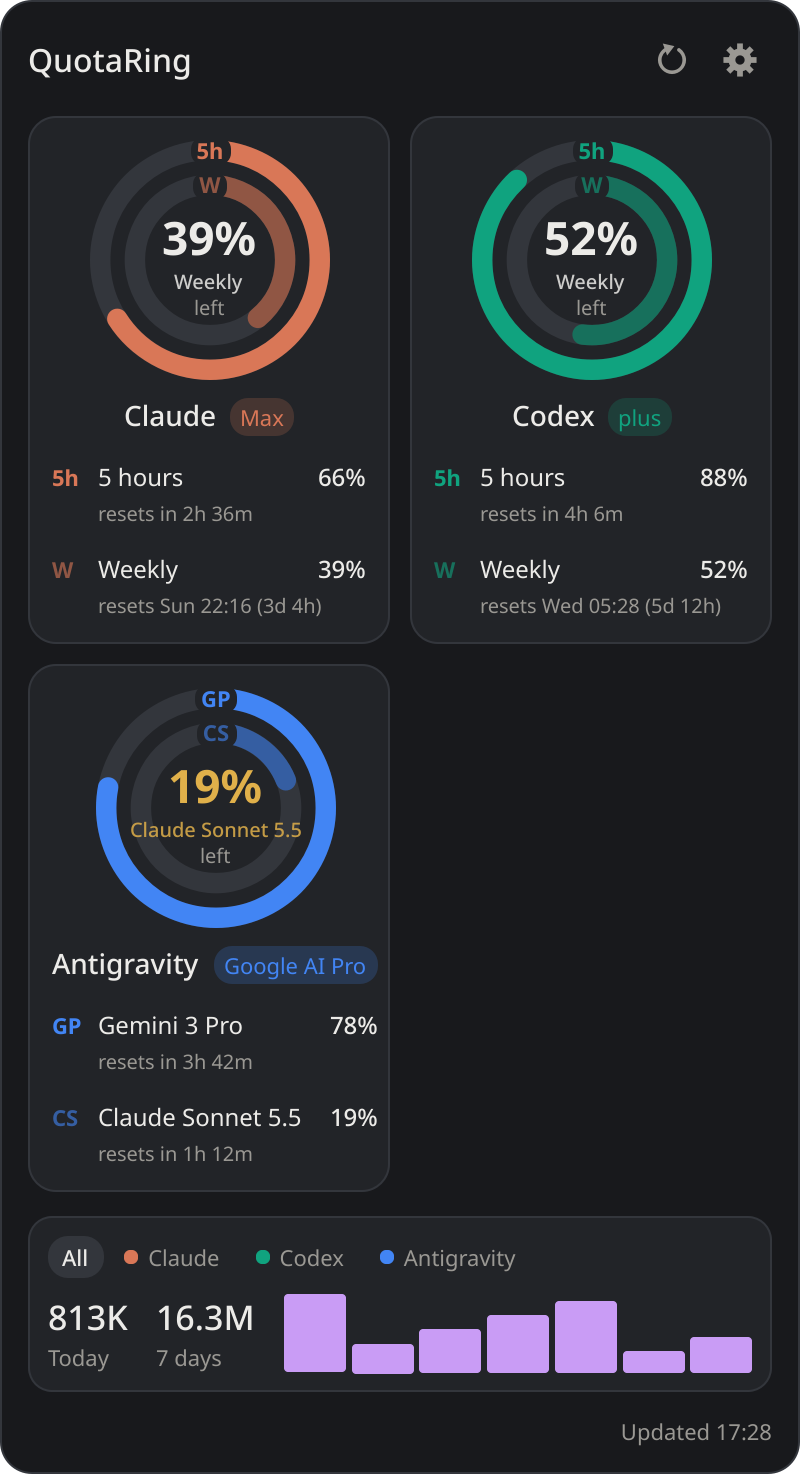
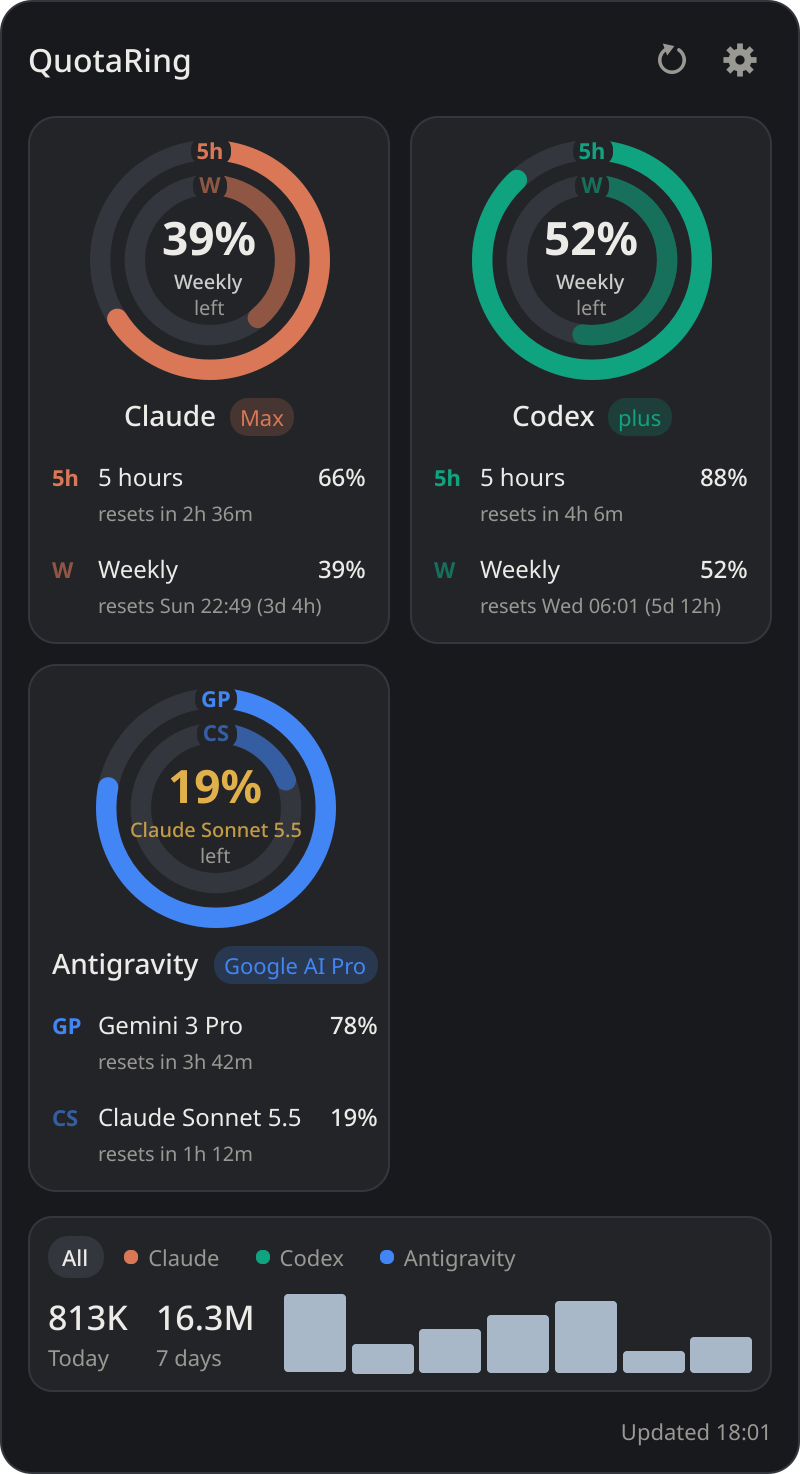
Accent colour setting: Slate, Ink or Amber
Settings > Accent colour picks the app's accent and the colour of its icon (tray, window).
Slate is the default and the colour of the logo files; Amber moves the 'limit near' colour
to orange so the two stay apart. App-icon SVGs for each accent in docs/brand.

diff --git a/quotaring/ui/qml/SettingsWindow.qml b/quotaring/ui/qml/SettingsWindow.qml
@@ -62,6 +62,14 @@ Window {
                         }
                     }
                     Row2 {
+                        label: win.t.accent
+                        Segmented {
+                            options: [["slate", win.t.slate], ["ink", win.t.ink], ["amber", win.t.amber]]
+                            value: win.draft.accent || "slate"
+                            onPicked: v => win.set("accent", v)
+                        }
+                    }
+                    Row2 {
                         label: win.t.language
                         Segmented {
                             options: [["system", win.t.system], ["en", "English"], ["tr", "Türkçe"]]

diff --git a/docs/brand/build_logo.py b/docs/brand/build_logo.py
@@ -13,7 +13,10 @@ from pathlib import Path
 from PySide6.QtGui import QFont, QGuiApplication, QPainterPath
 
 OUT = Path(__file__).resolve().parent
-PURPLE, LILAC, NIGHT, INK, INK_DARK = "#9448D6", "#C99CF5", "#18191C", "#1D1C1A", "#ECEBE8"
+NIGHT, INK, INK_DARK = "#18191C", "#1D1C1A", "#ECEBE8"
+# Accent colours, as in quotaring/ui/theme.py ACCENTS: (light background, dark background).
+ACCENTS = {"slate": ("#3F5468", "#A9B8C8"), "ink": (INK, INK_DARK), "amber": ("#A15F00", "#F2B544")}
+MAIN, MAIN_DARK = ACCENTS["slate"]  # the default; used for the logo files
 
 
 def mark(c=125.0, r=80.0, w=36.0, tail=116.0) -> str:
@@ -69,8 +72,8 @@ def svg(name: str, viewbox: str, body: str) -> None:
 
 def main():
     QGuiApplication(sys.argv)
-    svg("quotaring-symbol", "0 0 256 256", f'<path fill="{PURPLE}" d="{SYMBOL}"/>')
-    svg("quotaring-symbol-small", "0 0 256 256", f'<path fill="{PURPLE}" d="{SYMBOL_SMALL}"/>')
+    svg("quotaring-symbol", "0 0 256 256", f'<path fill="{MAIN}" d="{SYMBOL}"/>')
+    svg("quotaring-symbol-small", "0 0 256 256", f'<path fill="{MAIN}" d="{SYMBOL_SMALL}"/>')
     svg("quotaring-symbol-black", "0 0 256 256", f'<path fill="#000" d="{SYMBOL}"/>')
     svg("quotaring-symbol-white", "0 0 256 256", f'<path fill="#fff" d="{SYMBOL}"/>')
 
@@ -79,7 +82,7 @@ def main():
     x0 = 256 + 36 - box.left()
     y0 = 128 - (box.top() + box.bottom()) / 2 + 6
     width = x0 + box.right() + 20
-    for name, mark_color, text_color in (("horizontal", PURPLE, INK), ("horizontal-dark", LILAC, INK_DARK),
+    for name, mark_color, text_color in (("horizontal", MAIN, INK), ("horizontal-dark", MAIN_DARK, INK_DARK),
                                          ("horizontal-black", "#000", "#000"),
                                          ("horizontal-white", "#fff", "#fff")):
         svg(f"quotaring-{name}", f"0 0 {width:.0f} 256",
@@ -92,15 +95,18 @@ def main():
     sx = (width - 256) / 2
     tx, ty = (width - box.width()) / 2 - box.left(), 256 + 36 - box.top()
     svg("quotaring-stacked", f"0 0 {width:.0f} {ty + box.bottom() + 20:.0f}",
-        f'<path fill="{PURPLE}" transform="translate({sx:.2f} 0)" d="{SYMBOL}"/>'
+        f'<path fill="{MAIN}" transform="translate({sx:.2f} 0)" d="{SYMBOL}"/>'
         f'<path fill="{INK}" transform="translate({tx:.2f} {ty:.2f})" d="{text}"/>')
 
-    # App icon: night tile, lilac mark nudged up-left to sit on the optical centre.
+    # App icon: night tile, accent-coloured mark nudged up-left to sit on the optical centre.
     tile = f'<rect width="256" height="256" rx="56" fill="{NIGHT}"/>'
-    svg("quotaring-app-icon", "0 0 256 256", tile +
-        f'<path fill="{LILAC}" transform="translate(124 124) scale(0.74) translate(-128 -128)" d="{SYMBOL}"/>')
-    svg("quotaring-app-icon-small", "0 0 256 256", tile +
-        f'<path fill="{LILAC}" transform="translate(124 124) scale(0.8) translate(-128 -128)" d="{SYMBOL_SMALL}"/>')
+    # One per accent colour (the app draws the chosen one); the plain name is the default.
+    for accent, (_light, dark) in ACCENTS.items():
+        suffix = "" if accent == "slate" else f"-{accent}"
+        svg(f"quotaring-app-icon{suffix}", "0 0 256 256", tile +
+            f'<path fill="{dark}" transform="translate(124 124) scale(0.74) translate(-128 -128)" d="{SYMBOL}"/>')
+        svg(f"quotaring-app-icon{suffix}-small", "0 0 256 256", tile +
+            f'<path fill="{dark}" transform="translate(124 124) scale(0.8) translate(-128 -128)" d="{SYMBOL_SMALL}"/>')
     print("written to", OUT)
 
 

diff --git a/quotaring/app.py b/quotaring/app.py
@@ -23,8 +23,9 @@ from .ui.popup import Backend, Popup, layer_shell_import_dir
 log = logging.getLogger("quotaring")
 
 
-def make_icon() -> QIcon:
+def make_icon(accent: str = theme.DEFAULT_ACCENT) -> QIcon:
     """App icon: the QuotaRing mark (a Q drawn as a gauge) on a dark tile; see docs/brand/build_logo.py."""
+    color = theme.ACCENTS.get(accent, theme.ACCENTS[theme.DEFAULT_ACCENT])[1]  # the tile is always dark
     icon = QIcon()
     for size in (16, 22, 24, 32, 48, 64, 128, 256):
         pm = QPixmap(size, size)
@@ -42,7 +43,7 @@ def make_icon() -> QIcon:
         def at(v):  # canvas coordinate -> pixel, as translate(124) scale(s) translate(-128) in the SVG
             return (124 + scale * (v - 128)) * k
         rr, ww = r * scale * k, w * scale * k
-        p.setPen(QPen(QColor("#c99cf5"), ww, Qt.SolidLine, Qt.RoundCap))
+        p.setPen(QPen(QColor(color), ww, Qt.SolidLine, Qt.RoundCap))
         p.setBrush(Qt.NoBrush)
         p.drawArc(QRectF(at(c) - rr, at(c) - rr, 2 * rr, 2 * rr), 90 * 16, -270 * 16)
         d = 0.70710678
@@ -114,8 +115,8 @@ class Controller(QObject):
         self.signals.done.connect(self._on_done)
         self.seen_alerts = alerts.Seen()
 
-        self.palette = theme.resolve(self.settings.theme)
-        self.icon = make_icon()
+        self.palette = theme.resolve(self.settings.theme, self.settings.accent)
+        self.icon = make_icon(self.settings.accent)
         app.setWindowIcon(self.icon)
         self.backend = Backend(self.settings, self.palette)
         self.backend.refreshRequested.connect(lambda: self.refresh(force=True))
@@ -210,7 +211,7 @@ class Controller(QObject):
                               if ring["available"] else self.icon)
 
     def _panel_palette(self):
-        return theme.DARK if theme.system_is_dark() else theme.LIGHT
+        return theme.with_accent(theme.DARK if theme.system_is_dark() else theme.LIGHT, self.settings.accent)
 
     def _maybe_notify(self, snap):
         if self.tray is None:
@@ -220,8 +221,10 @@ class Controller(QObject):
 
     # -- popup / settings -----------------------------------------------
     def apply_theme(self):
-        self.palette = theme.resolve(self.settings.theme)
+        self.palette = theme.resolve(self.settings.theme, self.settings.accent)
         self.backend.set_palette(self.palette)
+        self.icon = make_icon(self.settings.accent)
+        self.app.setWindowIcon(self.icon)
         self.update_view()
 
     def open_settings(self):

diff --git a/quotaring/ui/theme.py b/quotaring/ui/theme.py
@@ -2,7 +2,7 @@
 
 from __future__ import annotations
 
-from dataclasses import dataclass
+from dataclasses import dataclass, replace
 
 from PySide6.QtCore import Qt
 from PySide6.QtGui import QGuiApplication
@@ -25,9 +25,29 @@ class Palette:
 
 
 LIGHT = Palette("light", "#f6f5f2", "#ffffff", "#e3e0da", "#1d1c1a", "#6b6862", "#ebe8e2",
-                "#9448d6", "#2f8f5b", "#c98a12", "#cf4b3f", "#6b6862")
+                "#3f5468", "#2f8f5b", "#c98a12", "#cf4b3f", "#6b6862")
 DARK = Palette("dark", "#18191c", "#222428", "#33363c", "#ecebe8", "#9a9893", "#33363c",
-               "#c99cf5", "#5cc28a", "#e0b04a", "#ef6f62", "#9a9893")
+               "#a9b8c8", "#5cc28a", "#e0b04a", "#ef6f62", "#9a9893")
+
+# Accent colours (the logo's colour too; Settings > Accent colour): light theme, dark theme.
+ACCENTS = {
+    "slate": ("#3f5468", "#a9b8c8"),
+    "ink": ("#1d1c1a", "#ecebe8"),
+    "amber": ("#a15f00", "#f2b544"),
+}
+DEFAULT_ACCENT = "slate"
+# Amber would match the "limit near" colour, so the warning moves to orange with it.
+WARN_WITH_AMBER = ("#c2581a", "#f0874a")
+
+
+def with_accent(p: Palette, accent: str) -> Palette:
+    light, dark = ACCENTS.get(accent, ACCENTS[DEFAULT_ACCENT])
+    is_dark = p.name == "dark"
+    p = replace(p, accent=dark if is_dark else light)
+    if accent == "amber":
+        p = replace(p, warn=WARN_WITH_AMBER[1] if is_dark else WARN_WITH_AMBER[0])
+    return p
+
 
 def system_is_dark() -> bool:
     hints = QGuiApplication.styleHints()
@@ -41,9 +61,11 @@ def system_is_dark() -> bool:
     return QGuiApplication.palette().window().color().lightness() < 128
 
 
-def resolve(theme: str) -> Palette:
+def resolve(theme: str, accent: str = DEFAULT_ACCENT) -> Palette:
     if theme == "dark":
-        return DARK
-    if theme == "light":
-        return LIGHT
-    return DARK if system_is_dark() else LIGHT
+        base = DARK
+    elif theme == "light":
+        base = LIGHT
+    else:
+        base = DARK if system_is_dark() else LIGHT
+    return with_accent(base, accent)

diff --git a/quotaring/ui/settings_form.py b/quotaring/ui/settings_form.py
@@ -8,7 +8,7 @@ from ..viewmodel import COLORS
 
 NAMES = {"claude": "Claude Code", "codex": "Codex", "antigravity": "Antigravity"}
 NO_QUOTA: dict[str, str] = {}  # providers without any quota source: their toggle is disabled
-SCALARS = ("local_refresh_seconds", "quota_refresh_seconds", "timeout_seconds", "theme", "language",
+SCALARS = ("local_refresh_seconds", "quota_refresh_seconds", "timeout_seconds", "theme", "language", "accent",
            "show_remaining", "start_at_login", "notify_threshold", "claude_command", "codex_command")
 
 
@@ -22,7 +22,7 @@ def form(s: Settings, autostart_supported: bool) -> dict:
         "notifications": "Notifications", "providers": "Providers", "commands": "Command paths",
         "local": "Local refresh every", "quota": "Quota refresh every", "timeout": "Query timeout",
         "seconds": "seconds", "theme": "Theme", "system": "Follow system", "light": "Light", "dark": "Dark",
-        "language": "Language",
+        "language": "Language", "accent": "Accent colour", "slate": "Slate", "ink": "Ink", "amber": "Amber",
         "remaining": "Show limits as the percent left (off: used)", "autostart": "Start at login",
         "autostartHint": "Start QuotaRing when you log in", "notify": "Notify at quota",
         "notifyHint": "Notify when a limit's use reaches", "off": "Off", "track": "Track this provider",

diff --git a/tests/test_ui.py b/tests/test_ui.py
@@ -218,3 +218,23 @@ def test_pinned_setting_is_cleaned(tmp_path):
     p = tmp_path / "s.json"
     p.write_text(json.dumps({"pinned": {"antigravity": "GPT-OSS 120B", "bard": "x", "codex": 3}}))
     assert settings_mod.load(p).pinned == {"antigravity": "GPT-OSS 120B"}
+
+
+def test_accent_colours():
+    from quotaring.settings import Settings
+    for name, (light, dark) in theme.ACCENTS.items():
+        assert theme.with_accent(theme.LIGHT, name).accent == light
+        assert theme.with_accent(theme.DARK, name).accent == dark
+    amber = theme.with_accent(theme.DARK, "amber")
+    assert amber.warn not in (theme.DARK.warn, amber.accent)  # "limit near" stays distinguishable
+    assert theme.with_accent(theme.LIGHT, "bogus").accent == theme.ACCENTS["slate"][0]
+    assert Settings(accent="bogus").clamp().accent == "slate"
+
+
+def test_accent_setting_round_trip(app, settings):
+    from quotaring.app import make_icon
+    from quotaring.ui import settings_form
+    settings_form.apply(settings, {"accent": "amber"})
+    assert settings.accent == "amber"
+    assert settings_form.form(settings, False)["values"]["accent"] == "amber"
+    assert not make_icon(settings.accent).pixmap(32, 32).isNull()

diff --git a/quotaring/settings.py b/quotaring/settings.py
@@ -18,6 +18,7 @@ class Settings:
     timeout_seconds: int = 20
     theme: str = "system"  # system | light | dark
     language: str = "system"  # system | en | tr
+    accent: str = "slate"  # slate | ink | amber: accent and app-icon colour
     start_at_login: bool = False
     show_remaining: bool = True  # limits as what is left (else as what is used)
     pinned: dict = field(default_factory=dict)  # provider id -> limit label shown on its ring
@@ -36,6 +37,8 @@ class Settings:
             self.language = "system"
         if self.theme not in ("system", "light", "dark"):
             self.theme = "system"
+        if self.accent not in ("slate", "ink", "amber"):
+            self.accent = "slate"
         self.pinned = {k: v for k, v in self.pinned.items() if k in PROVIDER_IDS and isinstance(v, str)}
         for d in (self.providers_enabled, self.quota_enabled):
             for p in PROVIDER_IDS:

diff --git a/quotaring/i18n.py b/quotaring/i18n.py
@@ -90,6 +90,10 @@ TR = {
     "Light": "Açık",
     "Dark": "Koyu",
     "Theme": "Tema",
+    "Accent colour": "Vurgu rengi",
+    "Slate": "Arduvaz",
+    "Ink": "Mürekkep",
+    "Amber": "Kehribar",
     "Show limits as the percent left (off: used)": "Limitleri kalan yüzde olarak göster (kapalıysa kullanılan)",
     "Start at login": "Oturum açılınca başlat",
     "Off": "Kapalı",

diff --git a/docs/brand/README.md b/docs/brand/README.md
@@ -14,7 +14,7 @@ tail is the needle. It is the app's tray ring turned into a letter.
 | `quotaring-stacked.svg` | Square-ish spaces (social preview, splash) |
 | `quotaring-symbol.svg` | Symbol alone, 48 px and up |
 | `quotaring-symbol-small.svg` | Heavier cut for 16–32 px (favicon, tray) |
-| `quotaring-app-icon.svg`, `-small.svg` | App icon tile (the PNG/ICO files in `packaging/icons` are drawn from the same geometry by `quotaring.app.make_icon`) |
+| `quotaring-app-icon.svg`, `-small.svg` (`-ink`, `-amber` variants) | App icon tile (the PNG/ICO files in `packaging/icons` are drawn from the same geometry by `quotaring.app.make_icon`) |
 | `*-black.svg`, `*-white.svg` | One-colour versions for print, stamps, single-colour UI |
 
 Rebuild everything with `QT_QPA_PLATFORM=offscreen python docs/brand/build_logo.py`, then
@@ -22,21 +22,22 @@ Rebuild everything with `QT_QPA_PLATFORM=offscreen python docs/brand/build_logo.
 
 ## Colour
 
-| Name | HEX | RGB | Use |
+QuotaRing has three accent colours; the user picks one in **Settings → Accent colour**, and the
+app's accent and its icon follow it. **Slate** is the default and the colour of the logo files.
+
+| Accent | On light | On dark | Character |
 |---|---|---|---|
-| Ring Purple | `#9448D6` | 148, 72, 214 | Symbol on light backgrounds; the app's light-theme accent |
-| Lilac | `#C99CF5` | 201, 156, 245 | Symbol on dark backgrounds; the app's dark-theme accent |
-| Night | `#18191C` | 24, 25, 28 | App icon tile, dark backgrounds |
-| Ink | `#1D1C1A` | 29, 28, 26 | Wordmark on light backgrounds |
-| Paper | `#F6F5F2` | 246, 245, 242 | Light backgrounds |
+| Slate (default) | `#3F5468` | `#A9B8C8` | Calm, technical; reads almost neutral at tray size |
+| Ink | `#1D1C1A` | `#ECEBE8` | The app's own text colour; sits in the tray like a system icon |
+| Amber | `#A15F00` | `#F2B544` | Warm, gauge-like, bright on dark panels; the app's "limit near" colour moves to orange with it |
 
-**Why purple:** the app's provider rings sit at orange (~15°), green (~165°) and blue (~217°) on the
-colour wheel. Purple (~272°) fills the largest free gap, so the logo and the app's accent never
-clash with a provider ring yet sit calmly on the warm neutral backgrounds. The provider colours
-belong to those providers and are never used for the QuotaRing logo.
+Neutrals: Night `#18191C` (app icon tile, dark backgrounds), Ink `#1D1C1A` (wordmark on light),
+Paper `#F6F5F2` (light backgrounds).
 
-Ring Purple on white has a contrast ratio of 5.1:1 (4.6:1 on Paper) and Lilac on Night 8.0:1,
-all above the WCAG 3:1 minimum for graphics and 4.5:1 for text.
+None of the accents is close to the provider colours used inside the app (orange, green, blue);
+those belong to the providers and are never used for the QuotaRing logo. Every accent passes
+4.5:1 against its background (Slate 7.8:1 on white and 8.7:1 on Night; Amber 5.1:1 on white
+and 9.6:1 on Night).
 
 ## Type
 
@@ -53,4 +54,4 @@ Use Noto Sans for text set next to the logo.
 - Recolour the symbol in provider colours or add gradients, shadows or outlines.
 - Close the ring, move the gap or change the tail's angle; the open quarter is the idea.
 - Stretch, rotate or set the wordmark in another typeface.
-- Place Ring Purple on mid-tone or busy backgrounds; use the white or black version instead.
+- Mix accents (a Slate ring with an Amber wordmark) or place an accent on mid-tone or busy backgrounds; use the white or black version instead.

diff --git a/README.md b/README.md
@@ -147,7 +147,7 @@ Saved as JSON in:
 Open Settings from the gear in the popup or the tray menu. Changes apply on Save, without a
 restart — including the language (follows the system, Turkish or English, or set it here).
 
-Options: theme (system / light / dark), language, limits as percent left or used, local
+Options: theme (system / light / dark), accent colour (Slate, Ink or Amber; the tray and app icon follow it), language, limits as percent left or used, local
 refresh interval (default 60 s), quota refresh interval (default 300 s), query timeout (20 s),
 start at login, quota notification threshold (default 90 %, only for fresh, provider-reported
 values), per-provider tracking and limit-check toggles, custom `claude` / `codex` paths.

diff --git a/CHANGELOG.md b/CHANGELOG.md
@@ -19,7 +19,7 @@ First public release.
   counts from its conversation databases (read-only).
 - Token strip: today, 7 days and a 7-day bar chart from local history, for all providers or
   one picked from the chips above it.
-- Settings: theme, language (English / Turkish, follows the system by default), percent left or
+- Settings: theme, accent colour (Slate, Ink, Amber; the app icon follows it), language (English / Turkish, follows the system by default), percent left or
   used, refresh intervals, start at login, quota notifications, per-provider toggles, CLI paths.
 - KDE Plasma Wayland: popup as a layer-shell surface anchored by the panel; XWayland fallback
   elsewhere (`--xwayland`).
